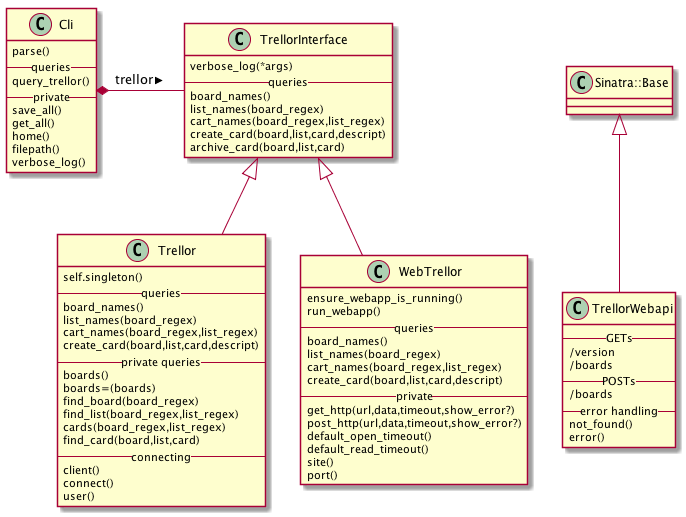
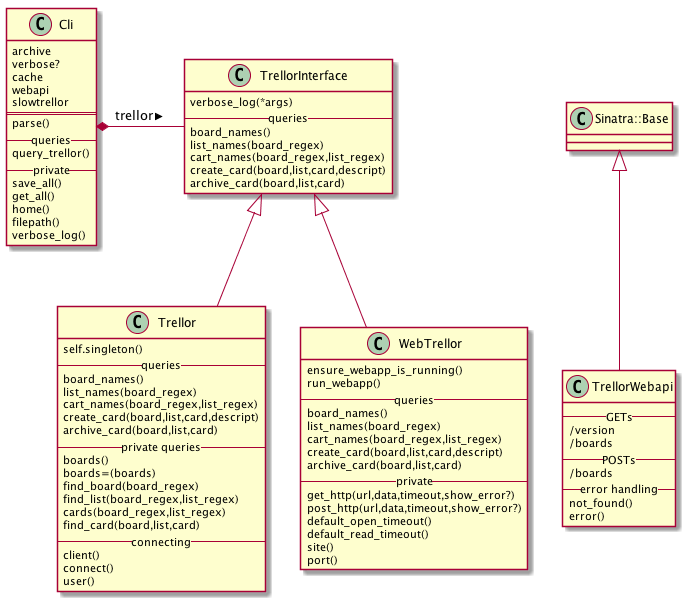
Match code order with the class diagram.

diff --git a/lib/trellor.rb b/lib/trellor.rb
@@ -15,31 +15,7 @@ module Trellor
       @singleton
     end
 
-    ############  connecting  ###############
-
-    def client(key=ENV['TRELLOR_KEY'], token=ENV['TRELLOR_TOKEN'])
-      @client ||= connect(key, token)
-    end
-
-    def connect(key=ENV['TRELLOR_KEY'], token=ENV['TRELLOR_TOKEN'])
-      verbose_log("connecting with", key, token)
-      Trello::Client.new(
-        :developer_public_key => key,
-        :member_token => token
-      )
-    end
-
-    def verbose_log(*args)
-      $stderr.puts("           ****** #{args.inspect}") if be_verbose
-    end
-
-    def user()
-      verbose_log('username', ENV['TRELLOR_USERNAME'])
-      @user ||= client.find(:members, ENV['TRELLOR_USERNAME'])
-    end
-
-
-    ##############  trellor interface  ###############
+    ##############  trellor interface queries  ###############
 
     def board_names
       boards.collect{ |board| board.name }.sort_by{|name| name.downcase}
@@ -65,7 +41,7 @@ module Trellor
 
 
 
-    ################  queries  #################
+    ################  private queries  #################
 
     def boards
       verbose_log('getting boards') unless @boards
@@ -100,6 +76,33 @@ module Trellor
       name = Regexp.new(card_name, Regexp::IGNORECASE)
       this_list.cards.find{ |card| name.match(card.name) }
     end
+
+    private
+
+    ############  connecting  ###############
+
+    def client(key=ENV['TRELLOR_KEY'], token=ENV['TRELLOR_TOKEN'])
+      @client ||= connect(key, token)
+    end
+
+    def connect(key=ENV['TRELLOR_KEY'], token=ENV['TRELLOR_TOKEN'])
+      verbose_log("connecting with", key, token)
+      Trello::Client.new(
+        :developer_public_key => key,
+        :member_token => token
+      )
+    end
+
+    def verbose_log(*args)
+      $stderr.puts("           ****** #{args.inspect}") if be_verbose
+    end
+
+    def user()
+      verbose_log('username', ENV['TRELLOR_USERNAME'])
+      @user ||= client.find(:members, ENV['TRELLOR_USERNAME'])
+    end
+
+
   end
 end
 

diff --git a/lib/web_trellor.rb b/lib/web_trellor.rb
@@ -49,6 +49,9 @@ module Trellor
       nil
     end
 
+
+    ##############  trellor interface queries  ###############
+
     def board_names
       verbose_log('getting boards') unless @boards
       @boards = JSON.parse(get_http('/boards').body)
@@ -71,7 +74,10 @@ module Trellor
       JSON.parse(post_http("/boards/#{board_name}/lists/#{list_name}/cards", {card_name: name, archive: true}).body)
     end
 
+
     private
+
+    #################  private  ################
 
     def get_http(url, data=nil, timeout=nil, show_error=true)
       uri = Addressable::URI.parse("#{site}#{url}")
